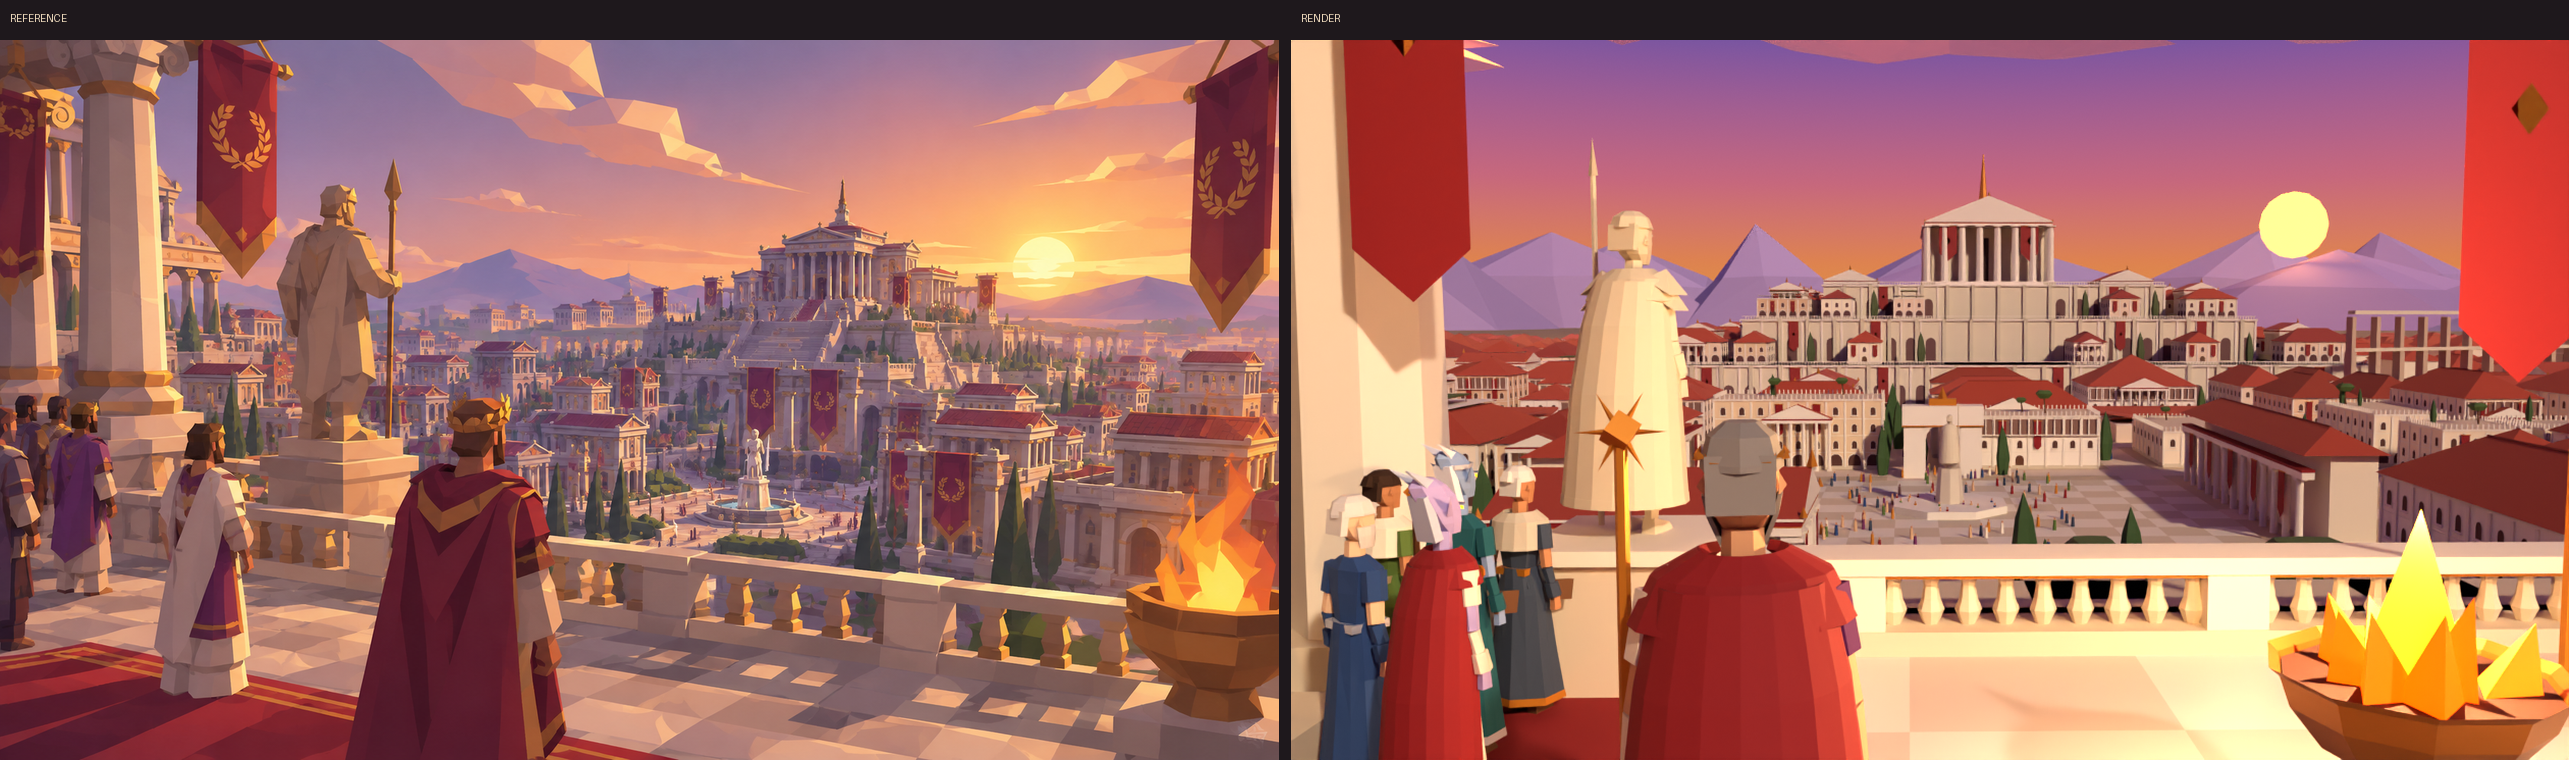
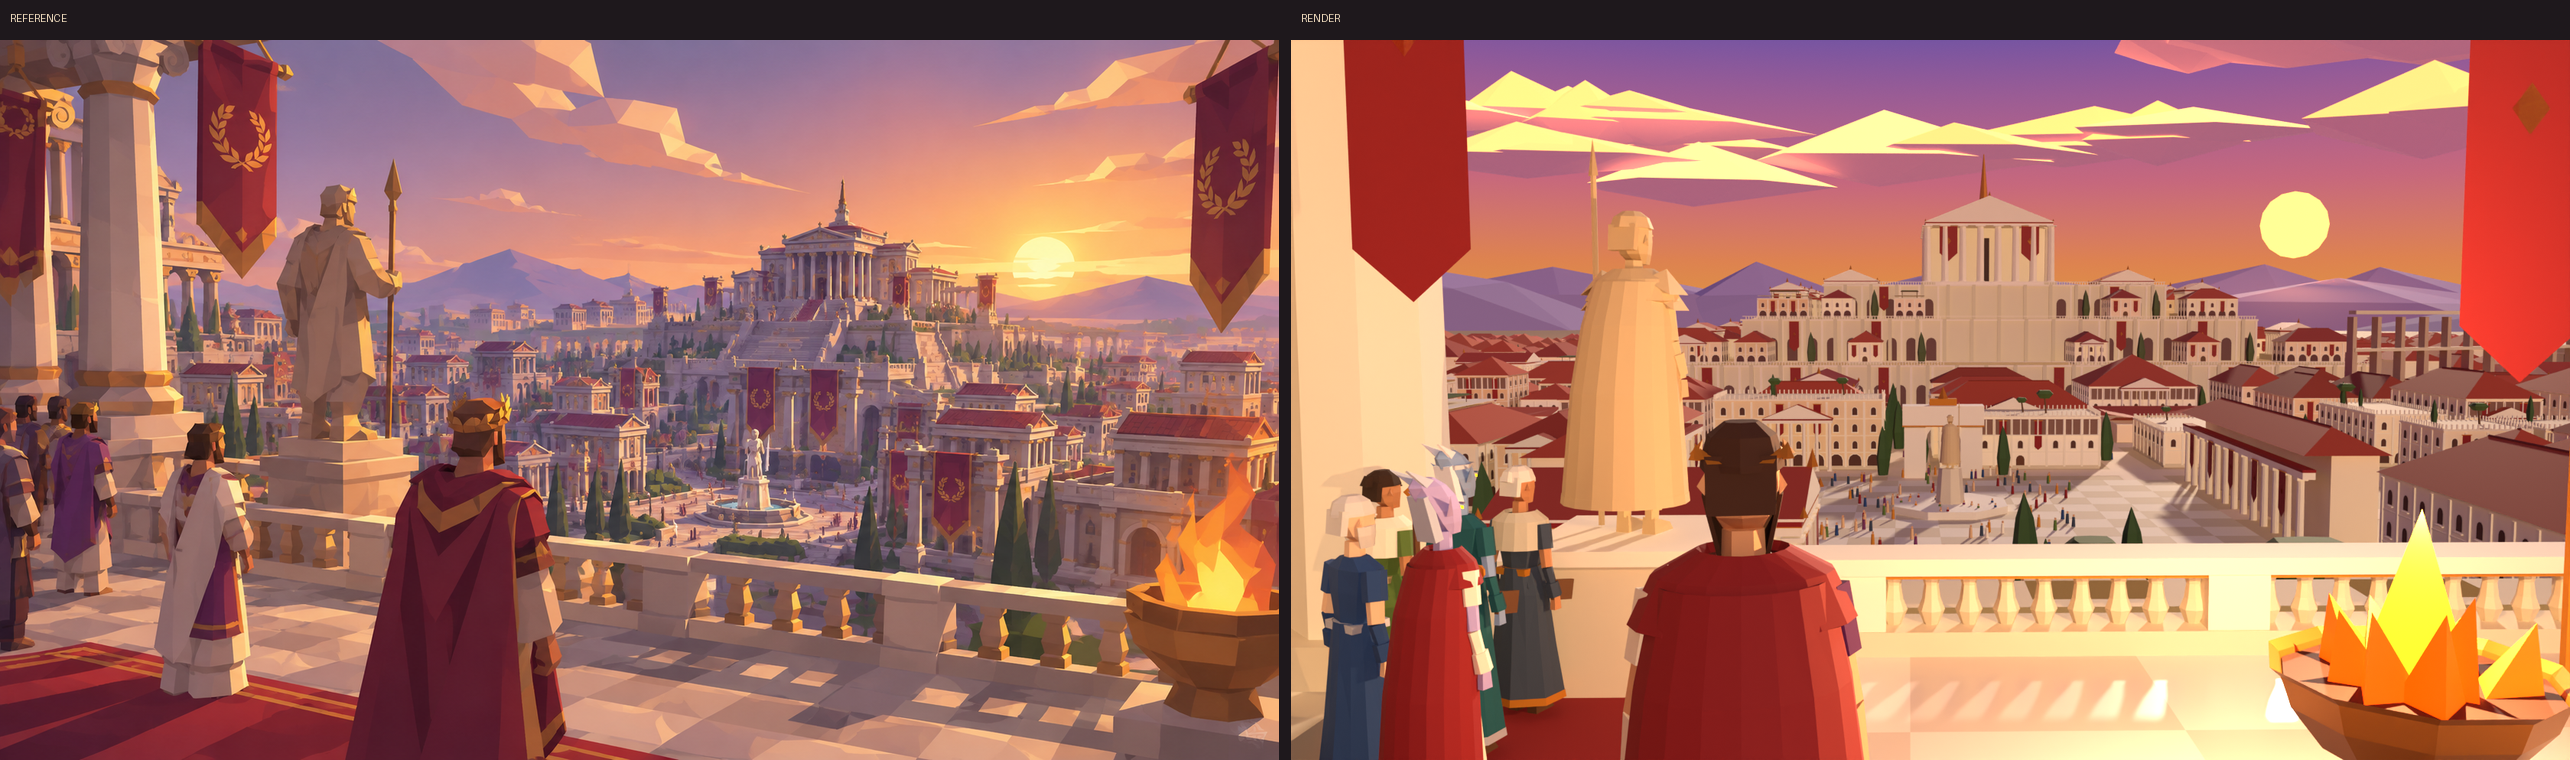
Imperium: balcony scene closer to the reference (two-light sunset, clouds, crown, statue)
Claude-Session: https://claude.ai/code/session_018j8SHgW5XjURYGrS5wedYS

diff --git a/imperium/blender/city.py b/imperium/blender/city.py
@@ -727,8 +727,8 @@ def build_horizon(rng):
         dirv = Vector((math.sin(t), -math.cos(t), 0))
         r = rng.uniform(2600, 3400)
         c = dirv * r
-        h = rng.uniform(140, 300)
-        rx, ry = rng.uniform(300, 600), rng.uniform(200, 400)
+        h = rng.uniform(90, 190)
+        rx, ry = rng.uniform(450, 800), rng.uniform(250, 450)
         col = rgbhex([a + (b - a) * rng.uniform(0.0, 0.25) for a, b in zip(hexrgb("a291c0"), hexrgb("d1a8bd"))])
         pts = []
         for k in range(7):
@@ -745,13 +745,13 @@ def build_horizon(rng):
     objs = [m.build()]
     # faceted evening clouds and the setting sun
     cl = Acc("Clouds")
-    for i in range(18):
+    for i in range(9):
         t = rng.uniform(-0.7, 0.6)
         dirv = Vector((math.sin(t), -math.cos(t), 0))
-        c = CAM + dirv * rng.uniform(900, 1400) + Vector((0, 0, rng.uniform(220, 520)))
+        c = CAM + dirv * rng.uniform(900, 1400) + Vector((0, 0, rng.uniform(120, 300)))
         yaw = t + rng.uniform(-0.3, 0.3)
         L = rng.uniform(160, 420)
-        for k in range(rng.randint(3, 6)):
+        for k in range(rng.randint(2, 4)):
             p = c + Vector((math.cos(yaw), math.sin(yaw), 0)) * rng.uniform(-L / 2, L / 2) + Vector((0, 0, rng.uniform(-15, 15)))
             w, d, h = rng.uniform(90, 200), rng.uniform(50, 90), rng.uniform(26, 55)
             top = cl.key(rng.choice(("f8cf8f", "f6bd7a", "fadca2")), 0.9, 0, rng.choice(("f8b86a", "f6aa60")), 1.4)
@@ -866,12 +866,12 @@ def fire_bowl(x, y, s=1.5):
         r = rr.uniform(0.15, 0.5) * s
         bx, by = x + math.cos(ang) * r, y + math.sin(ang) * r
         h = rr.uniform(0.35, 0.75) * s
-        col = a.key(rr.choice(("ff8a1a", "ff9a2a", "ff6a10")), 0.5, 0, rr.choice(("ff5a00", "ff7010", "ff4800")), rr.uniform(1.6, 2.6))
+        col = a.key(rr.choice(("ff7a18", "ff8a20", "f06010")), 0.5, 0, rr.choice(("ff4a00", "ff5a08", "e84000")), rr.uniform(1.4, 2.2))
         base = [(bx + math.cos(ang + k * 2.1) * 0.2 * s, by + math.sin(ang + k * 2.1) * 0.2 * s, 1.18 * s) for k in range(3)]
         tip = (bx + math.cos(ang) * 0.15 * s, by + math.sin(ang) * 0.15 * s, 1.18 * s + h)
         for k in range(3):
             a.poly([base[k], base[(k + 1) % 3], tip], col)
-    core = a.key("ffc040", 0.5, 0, "ffa000", 3.0)
+    core = a.key("ffb030", 0.5, 0, "ff9a10", 2.6)
     base = [(x + math.cos(k * 2.1) * 0.35 * s, y + math.sin(k * 2.1) * 0.35 * s, 1.18 * s) for k in range(3)]
     for k in range(3):
         a.poly([base[k], base[(k + 1) % 3], (x, y, 1.18 * s + 0.95 * s)], core)
@@ -886,11 +886,11 @@ def statue_on(spec, x, y, z, yaw, scale=1.6):
     marble = dict(spec)
     for k in ("skin", "hair", "primary", "secondary", "trim", "cloak", "shield", "lining"):
         if marble.get(k):
-            marble[k] = "d9cdb2"
+            marble[k] = "cdb48c"
     fig = C.Figure("statue", marble).build()
     for o in fig:
         o.data.materials.clear()
-        o.data.materials.append(C.m("d9cdb2", 0.7))
+        o.data.materials.append(C.m("cdb48c", 0.7))
         for p in o.data.polygons:
             p.material_index = 0
     P.place(fig, (x, y, z), yaw, scale)
@@ -902,22 +902,26 @@ def court():
     who = [("emperor", (-0.6, 3.7), -0.12, 1.38), ("herald", (-2.6, 1.6), 0.45, 1.0), ("treasurer", (-3.0, 0.4), 0.3, 1.0),
            ("aldric", (-3.4, 1.0), 0.6, 1.0), ("empress", (-3.6, 2.4), 0.2, 1.0), ("chancellor", (-2.9, -0.4), 0.4, 1.0), ("halvana", (-3.8, -0.2), 0.5, 1.0)]
     for cid, (x, y), yaw, sc in who:
-        P.place(C.Figure(cid, C.CAST[cid]).build(), (x, y, 0.03), yaw, sc)
+        spec = C.CAST[cid]
+        if cid == "emperor":
+            spec = dict(spec, hair="4a2e1e", beard="full", prop="none")
+        P.place(C.Figure(cid, spec).build(), (x, y, 0.03), yaw, sc)
 
 
 def lighting(samples):
     P.lighting(samples)
     sc = bpy.context.scene
     sun = [o for o in sc.objects if o.type == "LIGHT" and o.data.type == "SUN"][0]
-    sun.rotation_euler = Vector((-0.55, 0.85, 0.55)).normalized().to_track_quat("Z", "Y").to_euler()
-    sun.data.energy = 2.5
+    # key: the visible evening sun ahead, throwing long baluster shadows toward the viewer
+    sun.rotation_euler = Vector((SUN_DIR.x, SUN_DIR.y, 0.32)).normalized().to_track_quat("Z", "Y").to_euler()
+    sun.data.energy = 2.6
     # a warm fill from behind the viewer, as in the painting: faces toward us read golden, not grey
     bpy.ops.object.light_add(type="SUN", location=(0, 0, 50))
     fill = bpy.context.active_object
-    fill.data.energy = 0.0
+    fill.data.energy = 1.7
     fill.data.color = (1.0, 0.74, 0.5)
     fill.data.use_shadow = False
-    fill.rotation_euler = Vector((0.5, 1.0, 0.55)).normalized().to_track_quat("Z", "Y").to_euler()
+    fill.rotation_euler = Vector((-0.45, 1.0, 0.6)).normalized().to_track_quat("Z", "Y").to_euler()
     sun.data.color = (1.0, 0.8, 0.6)
     w = sc.world.node_tree
     ramp = [n for n in w.nodes if n.type == "VALTORGB"][0].color_ramp

diff --git a/imperium/blender/cast.py b/imperium/blender/cast.py
@@ -687,7 +687,7 @@ class Figure:
                     p = Vector((math.cos(a) * rx * 1.02, cy + math.sin(a) * ry * 1.02, zb - 0.01 + 0.008 * (i % 2)))
                     out = Vector((math.cos(a), math.sin(a), 0))
                     tang = Vector((-math.sin(a), math.cos(a), 0)) * -sx
-                    leaf = [p - tang * 0.018, p + out * 0.016, p + tang * 0.03 + Vector((0, 0, 0.022)), p - out * 0.006]
+                    leaf = [p - tang * 0.026, p + out * 0.026, p + tang * 0.045 + Vector((0, 0, 0.036)), p - out * 0.008]
                     self.add(done(mesh_from("Leaf", [tuple(v) for v in leaf], [(0, 1, 2), (0, 2, 3)], False), col))
             return
         cols = {"crown_gold": GOLD, "crown_silver": SILVER, "crown_iron": IRON, "diadem": GOLD, "diadem_silver": SILVER, "circlet": SILVER, "circlet_gold": GOLD}
